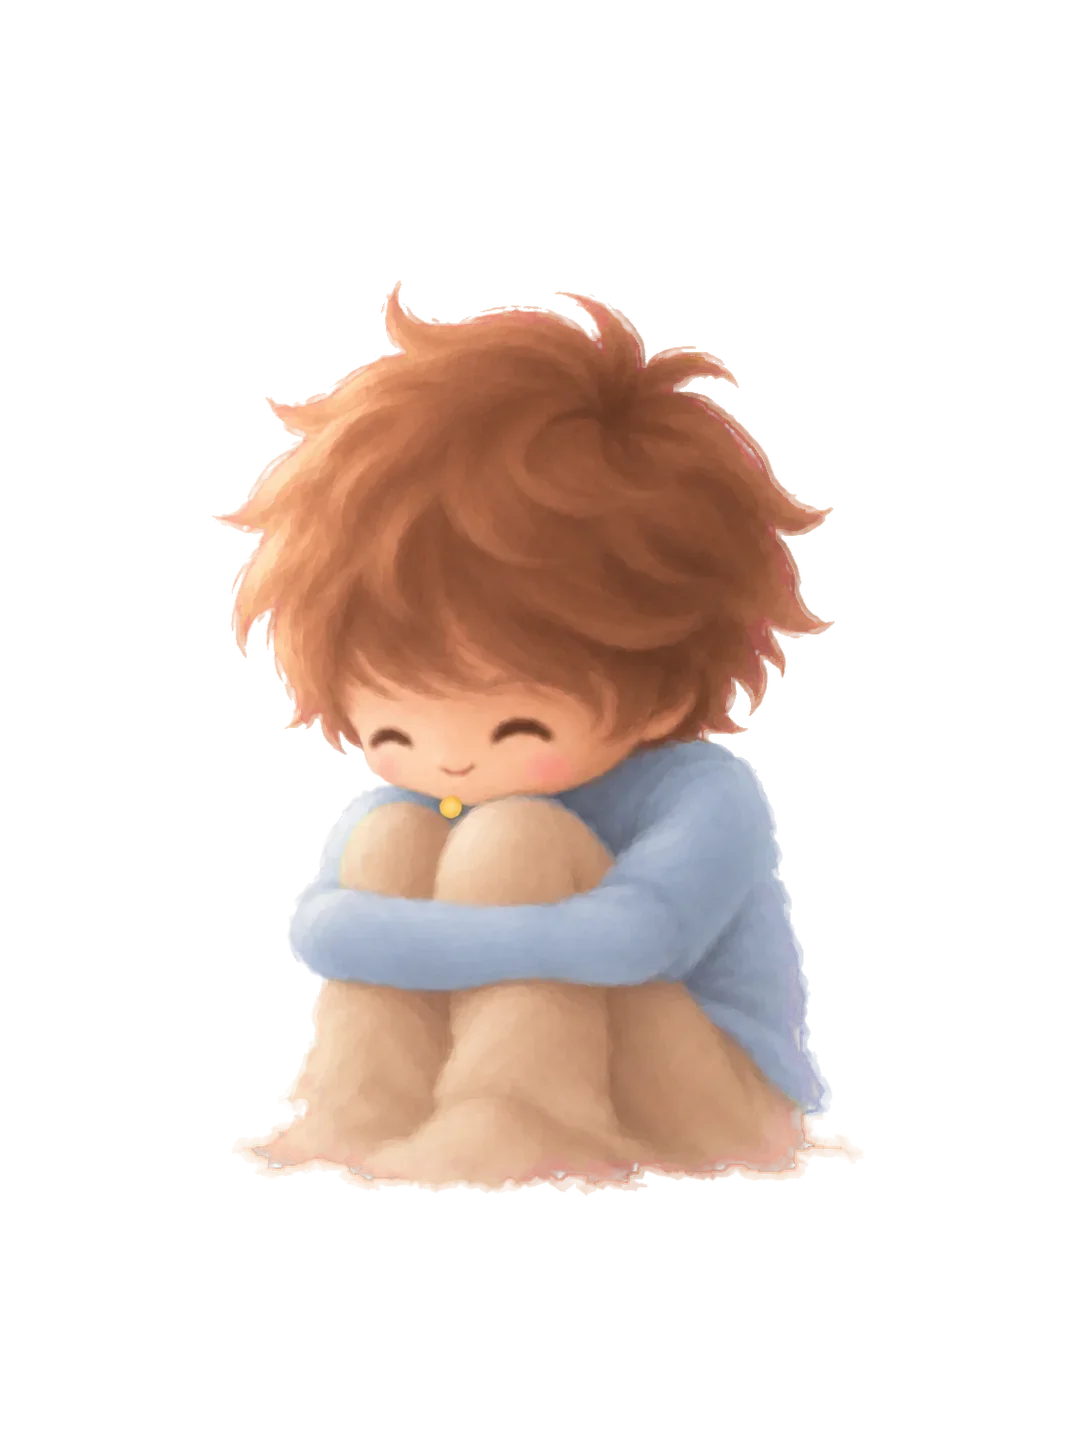
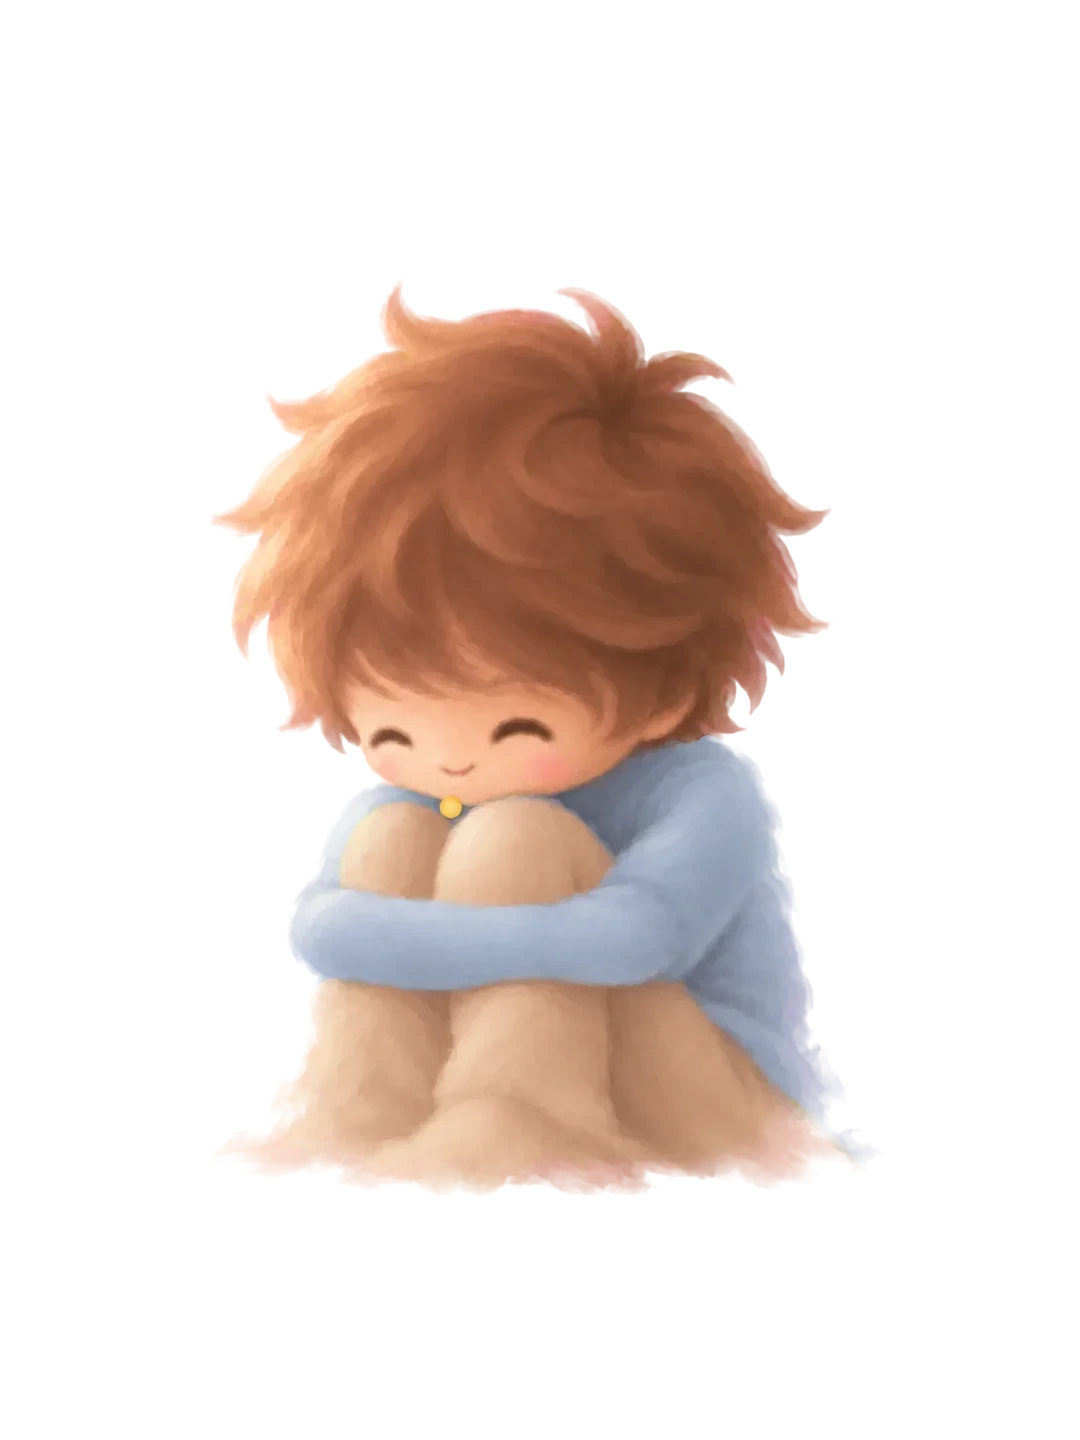
fix(art): clean the colour grey-child bust edge (grey bust's soft outline, colour filled from inside)
Claude-Session: https://claude.ai/code/session_017WoqJ7PBE5F4GzxWdiYF3d

diff --git a/design/art/act5/illust-fixes/greykid_color_edge.py b/design/art/act5/illust-fixes/greykid_color_edge.py
@@ -1,0 +1,33 @@
+"""greykid_color.py 다음에 돌린다. 색 흉상의 가장자리에 남은 밝은 테두리와 끊긴 윤곽을 없앤다.
+
+회색 기쁨 흉상과 윤곽이 거의 같으므로(IoU 0.98, 어긋남 0) 그 부드러운 알파를 그대로 쓰고,
+가장자리 색은 안쪽(알파를 9px 깎은 확실한 부분) 색을 바깥으로 번지게 채운다.
+쓰는 법: python3 -I design/art/act5/illust-fixes/greykid_color_edge.py
+"""
+from pathlib import Path
+import numpy as np
+from PIL import Image, ImageFilter
+
+ROOT = Path(__file__).resolve().parents[4]
+color_p = ROOT / 'assets/illust/bust_greykid_color.webp'
+grey_p = ROOT / 'assets/illust/bust_greykid_joy.webp'
+
+C = Image.open(color_p).convert('RGBA')
+GA = np.array(Image.open(grey_p).convert('RGBA').split()[3])
+core = np.array(C.split()[3].filter(ImageFilter.MinFilter(9))) > 220
+acc = np.array(C)[..., :3].astype(np.float32) * core[..., None]
+known = core.copy()
+need = GA > 0
+for _ in range(600):
+    if not (need & ~known).any():
+        break
+    w = known.astype(np.float32)
+    s = np.zeros_like(acc); n = np.zeros_like(w)
+    for dy, dx in [(-1, 0), (1, 0), (0, -1), (0, 1), (-1, -1), (1, 1), (-1, 1), (1, -1)]:
+        s += np.roll(np.roll(acc * w[..., None], dy, 0), dx, 1)
+        n += np.roll(np.roll(w, dy, 0), dx, 1)
+    new = (~known) & (n > 0)
+    acc[new] = s[new] / n[new][:, None]
+    known |= new
+Image.fromarray(np.dstack([np.uint8(np.clip(acc, 0, 255)), GA]), 'RGBA').save(color_p, quality=92, method=6)
+print('saved', color_p)
